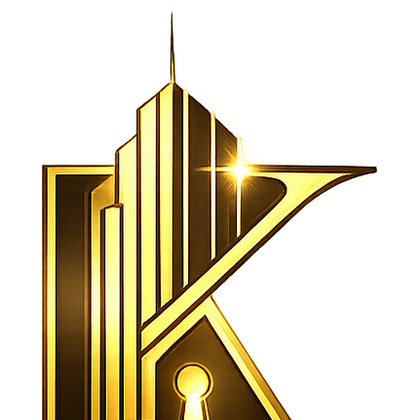
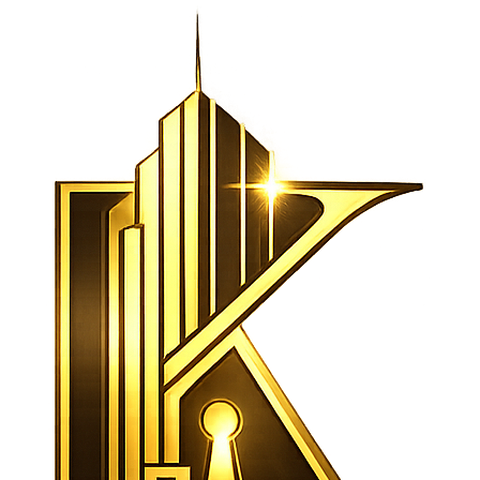
Add files via upload

Changed region(s): [[0.0929, 0.031, 0.8976, 1.0]]

diff --git a/css/styles.css b/css/styles.css
@@ -67,7 +67,7 @@ header.site{
   display:flex; align-items:center; gap:12px;
   font-weight:800; letter-spacing:.2px;
 }
-.brand img{width:34px; height:34px}
+.brand img{width:auto;height:auto;max-width:100%}
 .brand .name{display:flex; flex-direction:column; line-height:1.05}
 .brand .name small{color:var(--muted); font-weight:600}
 
@@ -294,10 +294,10 @@ header.site.brandbar{
 .brandbar-row .brand{display:flex; align-items:center}
 
 .logo-lockup{
-  height:170px;
-  width:auto;
+  height:240px !important;
+  width:auto !important;
   display:block;
-  max-width: 720px;
+  max-width:none !important;
 }
 
 nav.links{
@@ -306,14 +306,14 @@ nav.links{
   align-items:center;
   flex-wrap:wrap;
   justify-content:flex-end;
-  padding:6px;
+  padding:8px;
   border:1px solid rgba(233,238,246,.10);
   background: rgba(255,255,255,.03);
   border-radius: 999px;
 }
 
 nav.links a{
-  padding:10px 14px;
+  padding:12px 16px;
   border-radius: 999px;
   color: var(--muted);
 }
@@ -324,17 +324,20 @@ nav.links a[aria-current="page"]{
   background: rgba(215,181,109,.12);
 }
 
-.logo-mark{width:96px;height:96px}
+.logo-mark{
+  width:140px !important;
+  height:140px !important;
+}
 
 @media (max-width: 900px){
   .brandbar-row{flex-direction:column; align-items:flex-start; gap:12px}
   nav.links{width:100%; justify-content:flex-start}
-  .logo-lockup{height:150px; max-width:640px}
+  .logo-lockup{height:200px !important}
 }
 
 @media (max-width:520px){
-  .logo-lockup{height:120px; max-width:520px}
-  nav.links a{padding:8px 12px}
-  .logo-mark{width:80px;height:80px}
+  .logo-lockup{height:160px !important}
+  nav.links a{padding:10px 14px}
+  .logo-mark{width:110px !important;height:110px !important}
 }
 
